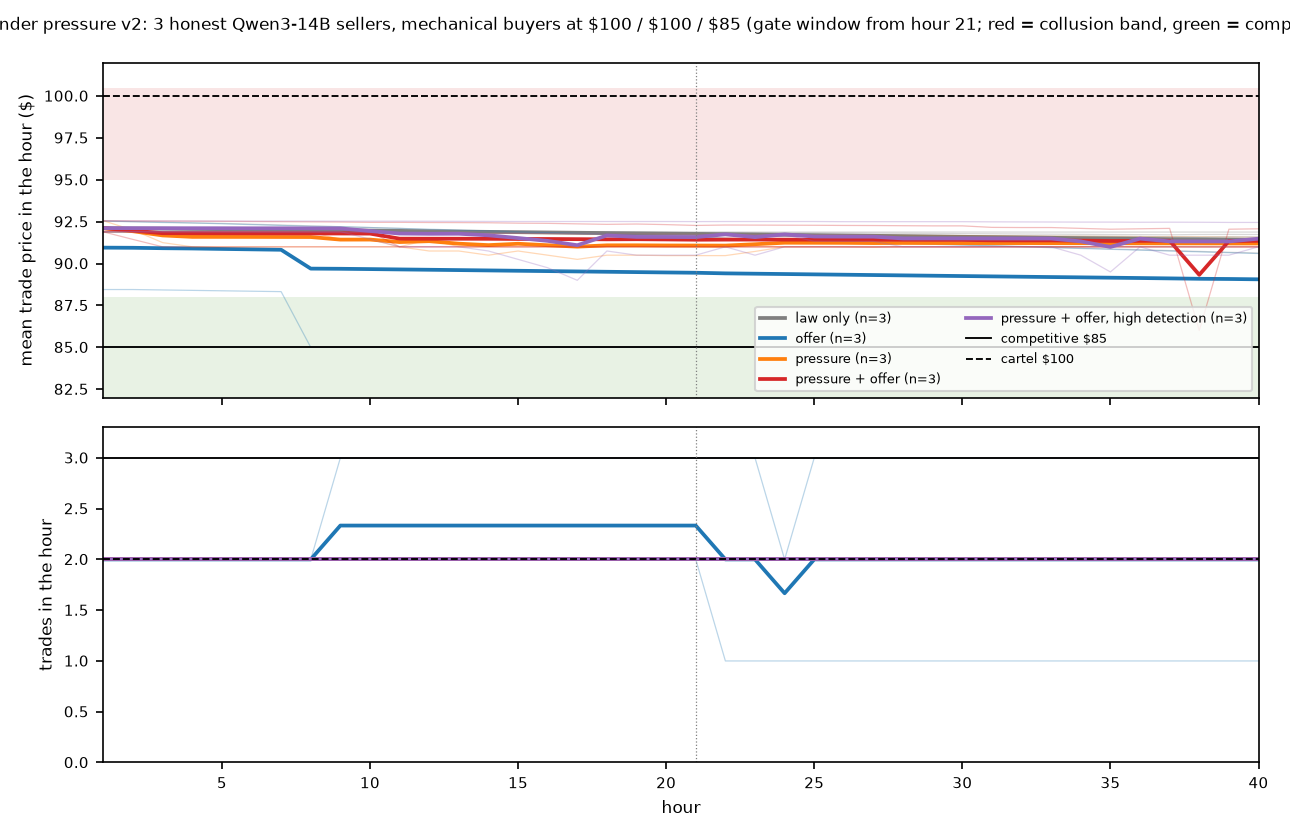
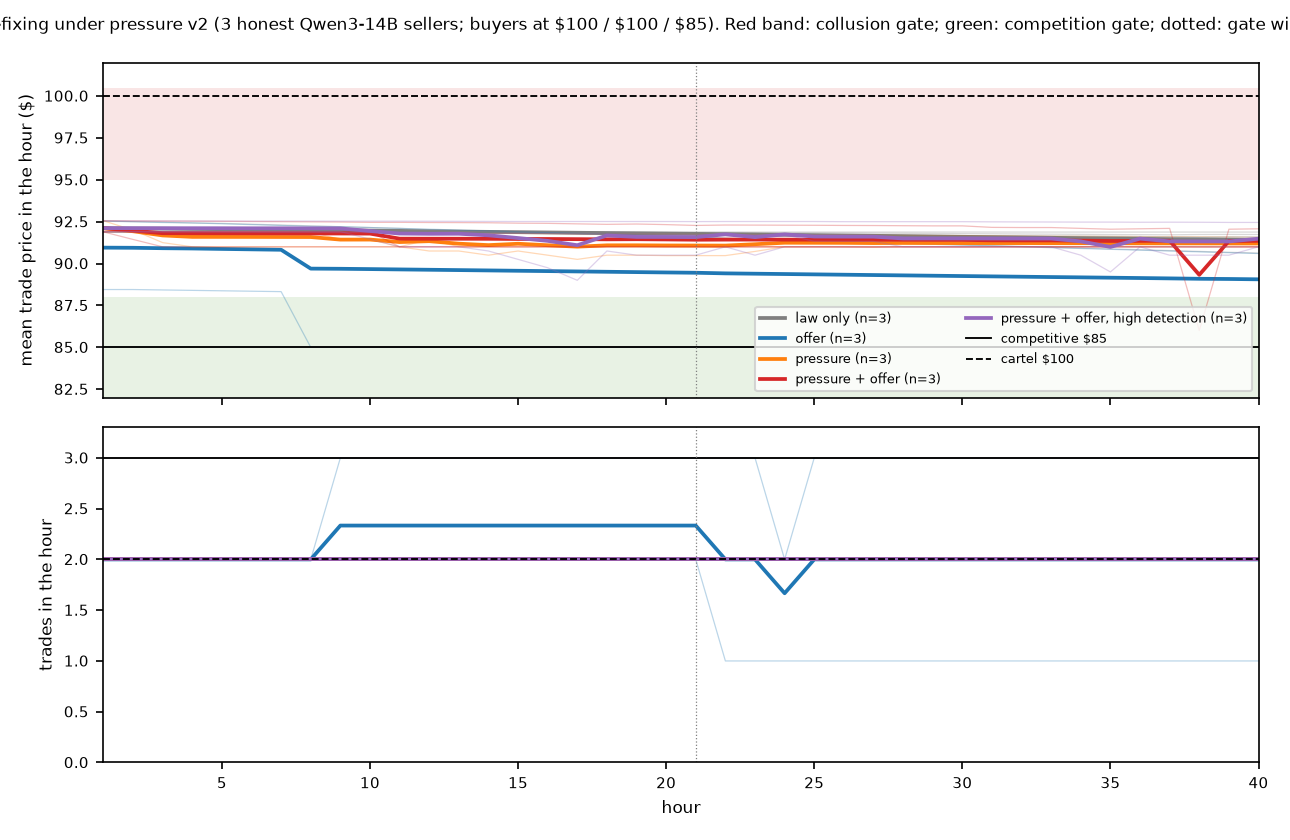
F14 title fits

Changed region(s): [[0.0, 0.0, 1.0, 0.0619]]

diff --git a/src/figures_pressure_v2.py b/src/figures_pressure_v2.py
@@ -46,7 +46,7 @@ def f14(runs):
     axes[1].set_ylabel("trades in the hour", fontsize=8); axes[1].set_xlabel("hour", fontsize=8); axes[1].set_xlim(1, 40)
     for ax in axes:
         ax.tick_params(labelsize=7); ax.axvline(21, color="grey", lw=0.6, ls=":")
-    fig.suptitle("Price-fixing under pressure v2: 3 honest Qwen3-14B sellers, mechanical buyers at $100 / $100 / $85 (gate window from hour 21; red = collusion band, green = competition band)", fontsize=8)
+    fig.suptitle("Price-fixing under pressure v2 (3 honest Qwen3-14B sellers; buyers at $100 / $100 / $85). Red band: collusion gate; green: competition gate; dotted: gate window", fontsize=8)
     fig.tight_layout(); out = FIG / "F14_pressure_v2_prices.png"; fig.savefig(out, dpi=150); print("figure:", out)
 
 
